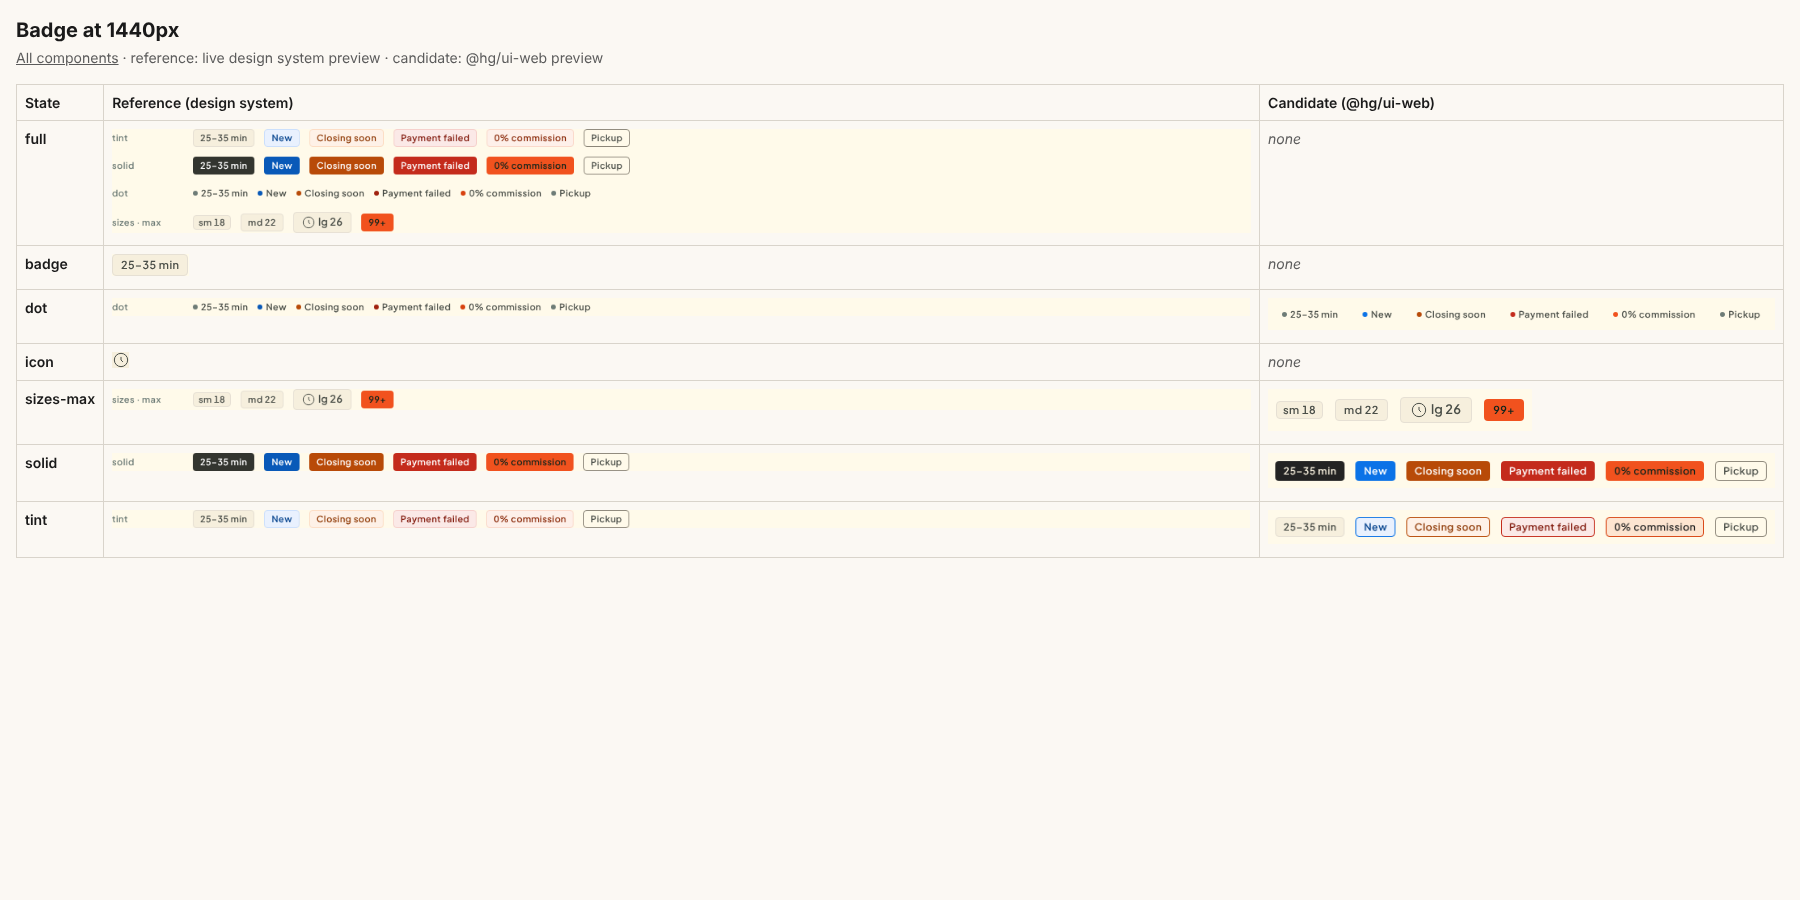
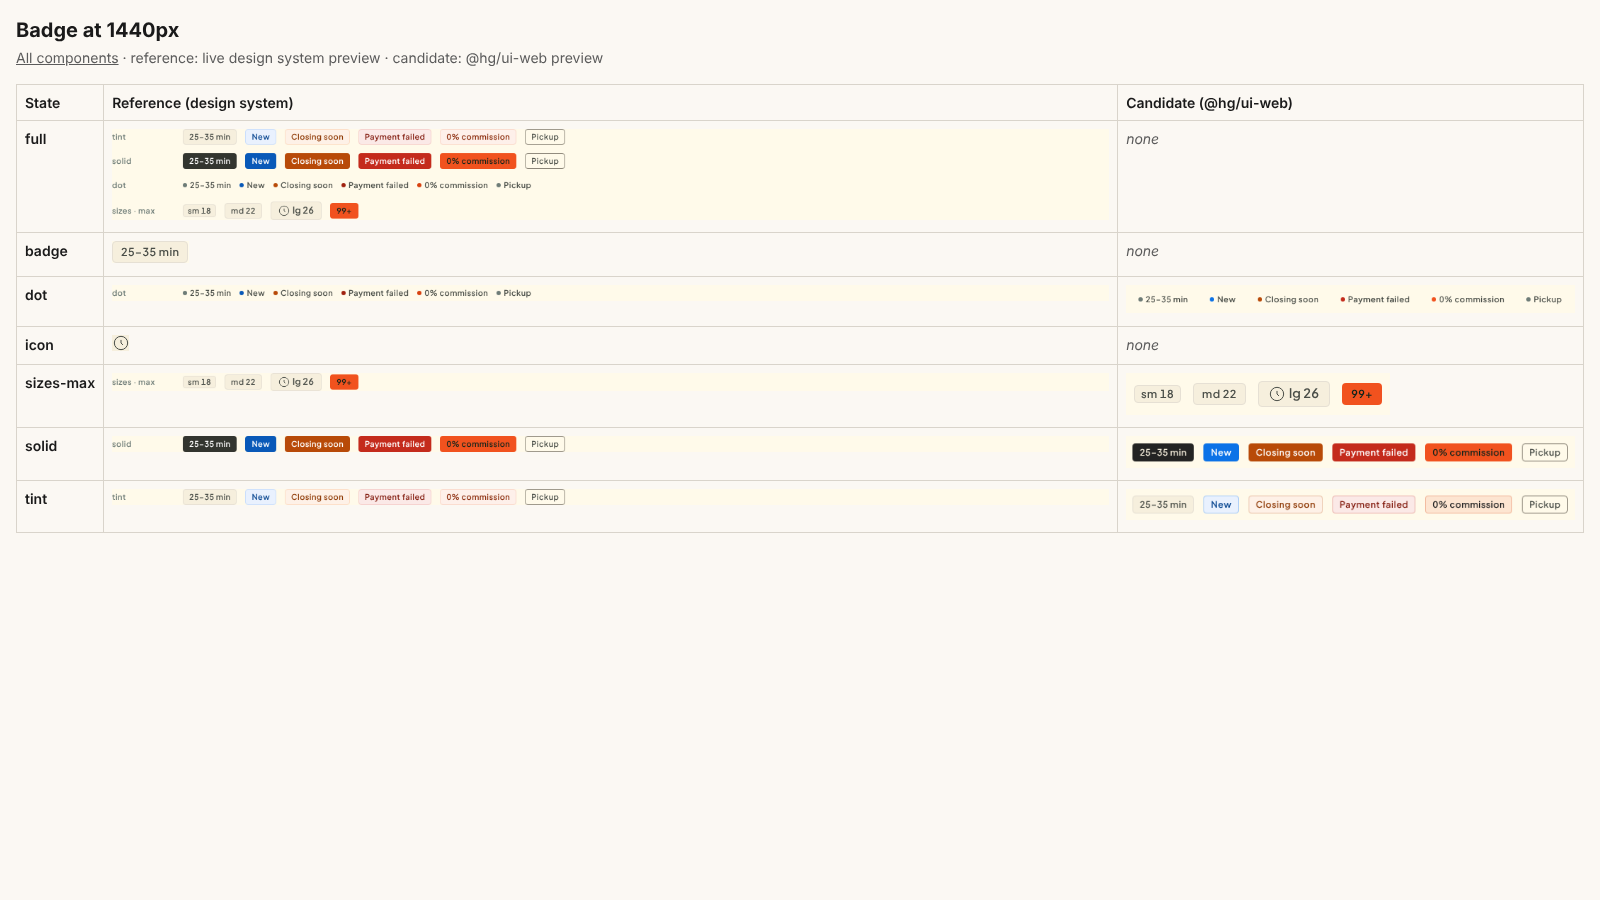
docs(ui-web): re-shoot the W1 Badge side-by-side after the tint border fix
Claude-Session: https://claude.ai/code/session_01DvfKShYL3C4K7xcwvopStY

Changed region(s): [[0.0, 0.0, 0.375, 0.5911], [0.6875, 0.2489, 1.0, 0.6222], [0.6875, 0.0933, 0.8125, 0.1244]]

diff --git a/index.md b/index.md
@@ -20,3 +20,5 @@ live preview page yet, so they show the candidate only.
 Update after merging `main` (the stack landed): KeyValueList.png, StatCard.png and
 ProposedCore.png are re-shot with the states added for the app tracks: dense rows with mono
 values, the warning StatCard tint, and the Skeleton rows and block layouts.
+
+Review update: Badge.png is re-shot after the tint borders moved to the reference's pale edge (the feedback border roles at 25%).
